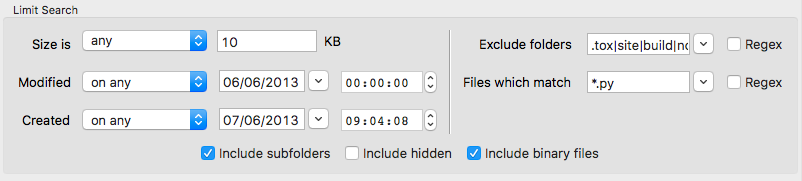
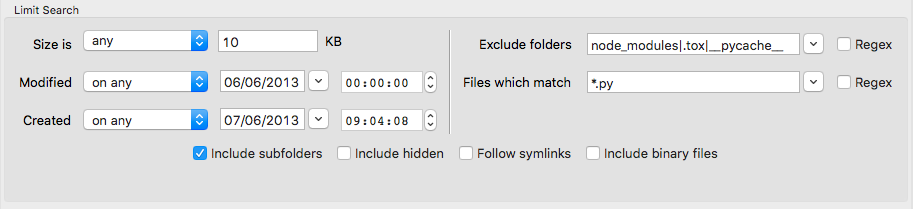
More related updates for symlink support Update document images and text Update symlink toggle label Bump version Move safe import into main file

diff --git a/rummage/lib/gui/data/docs/usage.html b/rummage/lib/gui/data/docs/usage.html
@@ -118,8 +118,12 @@
 <p><img alt="Regular Expression Buttons" src="images/regex_buttons.png" /></p>
 <h3 id="limit-search-panel">Limit Search Panel</h3>
 <p><img alt="Limit Search Panel" src="images/limit_search_panel.png" /></p>
-<p>The <strong>Limit Search</strong> panel contains checkboxes and inputs that filter the files to be searched.  You can filter out hidden files, files of specific sizes, or creation/modification dates.</p>
+<p>The <strong>Limit Search</strong> panel contains checkboxes and inputs that filter the files to be searched.  You can filter out hidden files, symlinks, files of specific sizes, or creation/modification dates.</p>
 <p>You can also restrict which files get searched by providing a wild card (or regular expression if preferred) pattern. By default, the patterns are applied to the base file or folder name. See <a href="search.html#wildcard">File Patterns</a> to learn more about accepted wild card pattern syntax and how to configure optional file pattern features.</p>
+<div class="admonition new">
+<p class="admonition-title">New 4.4.0</p>
+<p>Added the symlink following via the <strong>Follow symlinks</strong> toggle.</p>
+</div>
 <h3 id="results">Results</h3>
 <p>Once a search or replace is initiated, the results will begin to appear in the <strong>Files</strong> and <strong>Content</strong> tabs. You can then double click a file to open it in your editor, or right click them to bring up a context menu with additional options.</p>
 <p><img alt="Files Tab" src="images/files_tab.png" /></p>

diff --git a/rummage/lib/gui/data/docs/search.html b/rummage/lib/gui/data/docs/search.html
@@ -212,7 +212,7 @@
 <ul>
 <li>File patterns are case insensitive by default, even for Linux/Unix systems. Case sensitivity can be enabled in <a href="preferences.html#search">Preferences</a>.</li>
 <li>Slashes are generally treated as normal characters, but on windows they will be normalized: <code>/</code> will become <code>\\</code>. There is no need to explicitly use <code>\\</code> in patterns on Windows, but if you do, it will be handled.</li>
-<li><code>.</code> is always matched by <code>*</code>, <code>?</code>, <code>[]</code>, and extended patterns such as <code>*(...)</code>. Use enable searching hidden files in the <a href="usage.html#limit-panel">Limit Panel</a>.</li>
+<li><code>.</code> is always matched by <code>*</code>, <code>?</code>, and <code>[]</code>. Enable searching hidden files in the <a href="usage.html#limit-search-panel">Limit Panel</a>.</li>
 </ul>
 <h4 id="basic-wildcard-syntax">Basic Wildcard syntax</h4>
 <p>Rummage uses the <a href="https://github.com/facelessuser/wcmatch"><code>wcmatch</code></a> library to implement a specialized version of <a href="https://facelessuser.github.io/wcmatch/fnmatch/#syntax"><code>fnmatch</code></a> wildcard patterns for file name matching.</p>

diff --git a/rummage/lib/gui/data/docs/changelog.html b/rummage/lib/gui/data/docs/changelog.html
@@ -25,6 +25,10 @@
 
   <!-- Table of Content (Don't show for static sites) -->
     <h1 id="changelog">Changelog</h1>
+<h2 id="440">4.4.0</h2>
+<ul>
+<li><strong>NEW</strong>: Add the ability to follow symlinks via a new symlink toggle in the limit panel (disabled by default).</li>
+</ul>
 <h2 id="434">4.3.4</h2>
 <ul>
 <li><strong>FIX</strong>: Fix some glob related issues by upgrading to the minimum version of <code>wcmatch</code> version 2.1.0.</li>

diff --git a/rummage/lib/gui/gui.py b/rummage/lib/gui/gui.py
@@ -337,7 +337,7 @@ class RummageFrame ( wx.Frame ):
         self.m_hidden_checkbox = wx.CheckBox( self.m_settings_panel, wx.ID_ANY, u"Include hidden", wx.DefaultPosition, wx.DefaultSize, 0 )
         fgSizer32.Add( self.m_hidden_checkbox, 0, wx.ALL, 5 )
 
-        self.m_symlinks_checkbox = wx.CheckBox( self.m_settings_panel, wx.ID_ANY, u"Follow Symlinks", wx.DefaultPosition, wx.DefaultSize, 0 )
+        self.m_symlinks_checkbox = wx.CheckBox( self.m_settings_panel, wx.ID_ANY, u"Follow symlinks", wx.DefaultPosition, wx.DefaultSize, 0 )
         fgSizer32.Add( self.m_symlinks_checkbox, 0, wx.ALL, 5 )
 
         self.m_binary_checkbox = wx.CheckBox( self.m_settings_panel, wx.ID_ANY, u"Include binary files", wx.DefaultPosition, wx.DefaultSize, 0 )

diff --git a/rummage/__main__.py b/rummage/__main__.py
@@ -20,12 +20,16 @@ DEALINGS IN THE SOFTWARE.
 """
 from __future__ import unicode_literals
 from __future__ import absolute_import
-from .lib import safe_import  # noqa: F401
 import sys
-import os
-import argparse
-from .lib import __meta__
-from .lib.gui.app import rummage_app
+if '' in sys.path:
+    # Prevent us from loading local packages with `python -m`
+    # Comment this out if you want rummage to load a local package
+    # for testing.
+    sys.path.remove('')
+import os  # noqa: E402
+import argparse  # noqa: E402
+from .lib import __meta__  # noqa: E402
+from .lib.gui.app import rummage_app  # noqa: E402
 
 if sys.executable.endswith("pythonw.exe"):
     sys.stdout = open(os.devnull, "w")

diff --git a/rummage/lib/gui/rummage_dialog.py b/rummage/lib/gui/rummage_dialog.py
@@ -528,7 +528,7 @@ class RummageFrame(gui.RummageFrame):
         self.CASEFOLD = _("Full case-folding")
         self.SUBFOLDERS = _("Include subfolders")
         self.HIDDEN = _("Include hidden")
-        self.SYMLINK = _("Follow symlink")
+        self.SYMLINK = _("Follow symlinks")
         self.INCLUDE_BINARY = _("Include binary files")
         self.USE_REGEX = _("Regex")
         self.TEST_REGEX = _("Test Regex")

diff --git a/rummage/lib/__meta__.py b/rummage/lib/__meta__.py
@@ -187,7 +187,7 @@ def parse_version(ver, pre=False):
 
 
 #   (major, minor, micro, release type, pre-release build, post-release build, development-release)
-__version_info__ = Version(4, 3, 4, 'final')
+__version_info__ = Version(4, 4, 0, '.dev')
 __version__ = __version_info__._get_canonical()
 __app__ = "Rummage"
 __status__ = __version_info__[3]

diff --git a/docs/src/markdown/usage.md b/docs/src/markdown/usage.md
@@ -56,9 +56,12 @@ Lastly, Rummage provides buttons to launch a [regular expression tester](#regula
 
 ![Limit Search Panel](images/limit_search_panel.png)
 
-The **Limit Search** panel contains checkboxes and inputs that filter the files to be searched.  You can filter out hidden files, files of specific sizes, or creation/modification dates.
+The **Limit Search** panel contains checkboxes and inputs that filter the files to be searched.  You can filter out hidden files, symlinks, files of specific sizes, or creation/modification dates.
 
 You can also restrict which files get searched by providing a wild card (or regular expression if preferred) pattern. By default, the patterns are applied to the base file or folder name. See [File Patterns](./search.md#wildcard) to learn more about accepted wild card pattern syntax and how to configure optional file pattern features.
+
+!!! new "New 4.4.0"
+    Added the symlink following via the **Follow symlinks** toggle.
 
 ### Results
 

diff --git a/docs/src/markdown/search.md b/docs/src/markdown/search.md
@@ -64,7 +64,7 @@ If you would prefer regular expression file patterns, please see [Regular Expres
 
 - File patterns are case insensitive by default, even for Linux/Unix systems. Case sensitivity can be enabled in [Preferences](./preferences.md#search).
 - Slashes are generally treated as normal characters, but on windows they will be normalized: `/` will become `\\`. There is no need to explicitly use `\\` in patterns on Windows, but if you do, it will be handled.
-- `.` is always matched by `*`, `?`, `[]`, and extended patterns such as `*(...)`. Use enable searching hidden files in the [Limit Panel](./usage.md#limit-panel).
+- `.` is always matched by `*`, `?`, and `[]`. Enable searching hidden files in the [Limit Panel](./usage.md#limit-search-panel).
 
 #### Basic Wildcard syntax
 

diff --git a/docs/src/markdown/changelog.md b/docs/src/markdown/changelog.md
@@ -1,5 +1,9 @@
 # Changelog
 
+## 4.4.0
+
+- **NEW**: Add the ability to follow symlinks via a new symlink toggle in the limit panel (disabled by default).
+
 ## 4.3.4
 
 - **FIX**: Fix some glob related issues by upgrading to the minimum version of `wcmatch` version 2.1.0.
